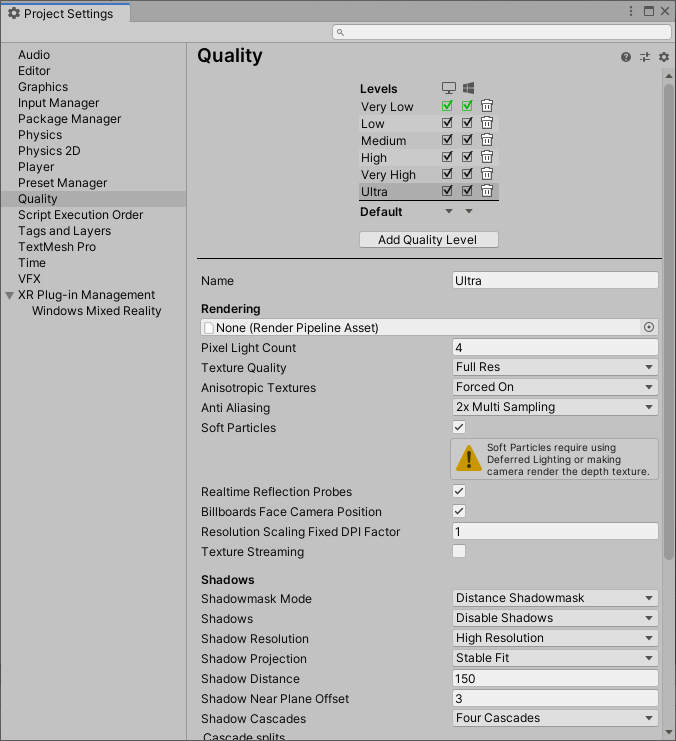
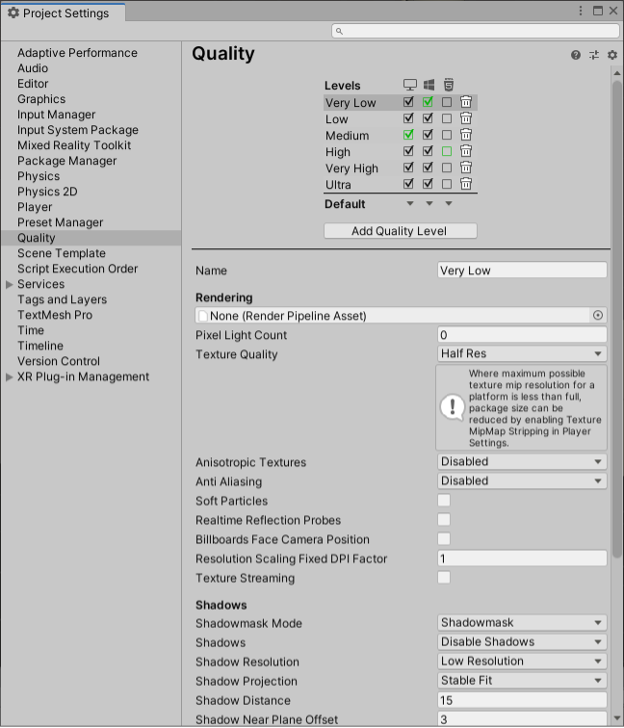
Add more screenshots and updates to configure unity project

diff --git a/mixed-reality-docs/mr-dev-docs/develop/unity/Configure-Unity-Project.md b/mixed-reality-docs/mr-dev-docs/develop/unity/Configure-Unity-Project.md
@@ -51,8 +51,10 @@ After setting your platform, you need to let Unity know to create an [immersive 
 
 ![Screenshot of Project settings window open in unity editor with XR Plugin management highlighted](images/wmr-config-img-7.png)
 
-4. Expand the **XR Plug-in Management** section and select **Windows Mixed Reality**
-5. Check all boxes and set **Depth Submission Mode** to **Depth 16 Bit**
+4. Expand the **XR Plug-in Management** section and select **Univeral Windows Platform Settings** tab
+5. If you are using Unity 2020 or later, you will see the options to check **OpenXR (preview)** or **Windows Mixed Reality**
+6. You can choose either runtime.  If you are specifically developing for the HoloLens 2 or the HP Reverb G2 and decide to try the **OpenXR (preview)**, select the OpenXR (preview) box and review our guide to [Using the Mixed Reality OpenXR Plugin for Unity](openxr-getting-started.md) to get yourself set up correctly for these devices before returning to this tutorial
+7. If you decide to choose the **Windows Mixed Reality** plugin, check all boxes and set **Depth Submission Mode** to **Depth 16 Bit**
 
 ![Screenshot of Project settings window open in unity editor with Windows Mixed Reality section highlighted](images/wmr-config-img-8.png)
 
@@ -85,11 +87,11 @@ It's recommended that you make the manifest declarations in Unity to include the
 
 ### Quality settings
 
-HoloLens has a mobile-class GPU. If your app is targeting HoloLens, you'll want the quality settings in your app tuned for fastest performance to ensure it maintains full frame-rate:
+HoloLens has a mobile-class GPU. If your app is targeting HoloLens, you'll want to start off with the quality settings in your app tuned for fastest performance to ensure it maintains full frame-rate.  Once you have your are further along in your development you may consider upping the quality settings to find the right balance of quality and performance: 
 
-1. Select **Edit > Project Settings > Quality**
-2. Select the **dropdown** under the **Windows Store** logo and select **Very Low**. You'll know the setting is applied correctly when the box in the Windows Store column and **Very Low** row is green
-3. In the **Shadows** section, select **Disable Shadows**
+1. Select **Edit > Project Settings > Quality** 
+2. Select the **dropdown** under the **Windows Store** logo and select **Very Low**. You'll know the setting is applied correctly when the box in the Windows Store column and Very Low row is green 
+3. In the **Shadows** section, select **Disable Shadows** 
 
 ![Screenshot of Project settings window open in unity editor with quality settings section highlighted](images/wmr-config-img-10.png)<br>
 *Unity quality settings*
